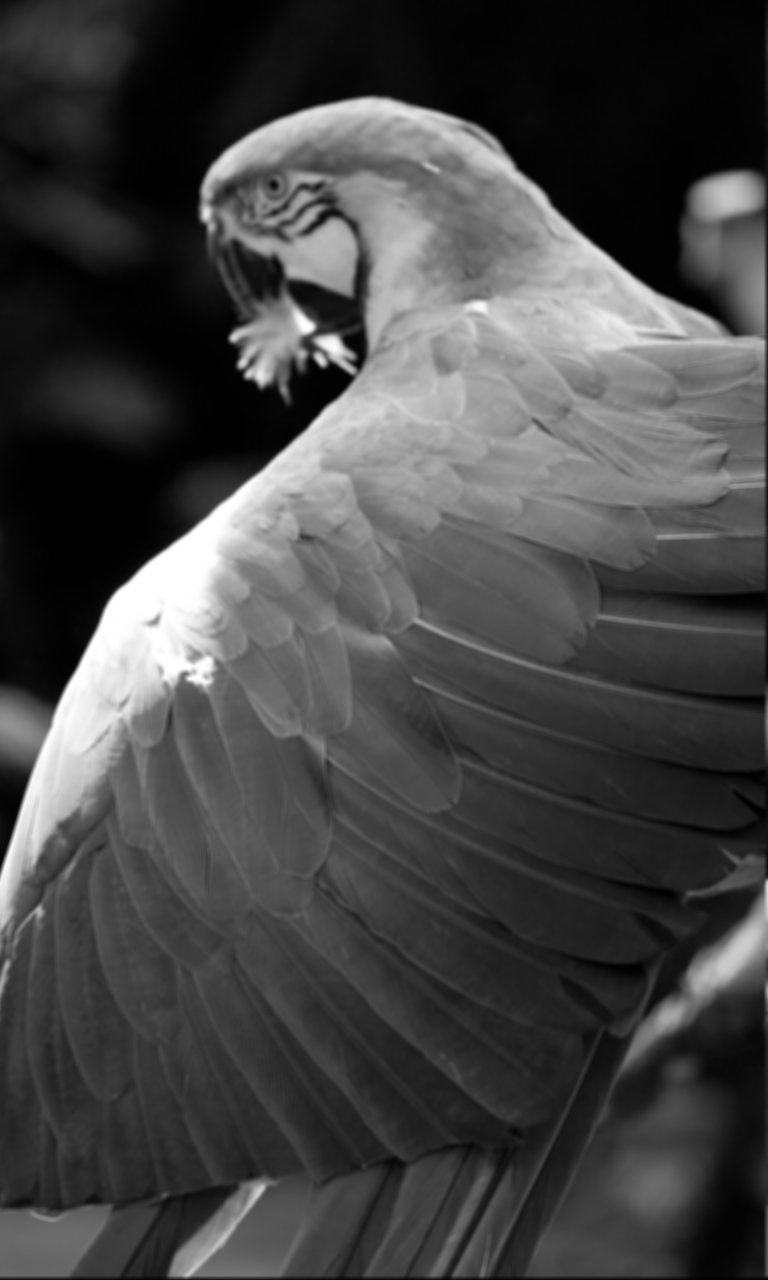
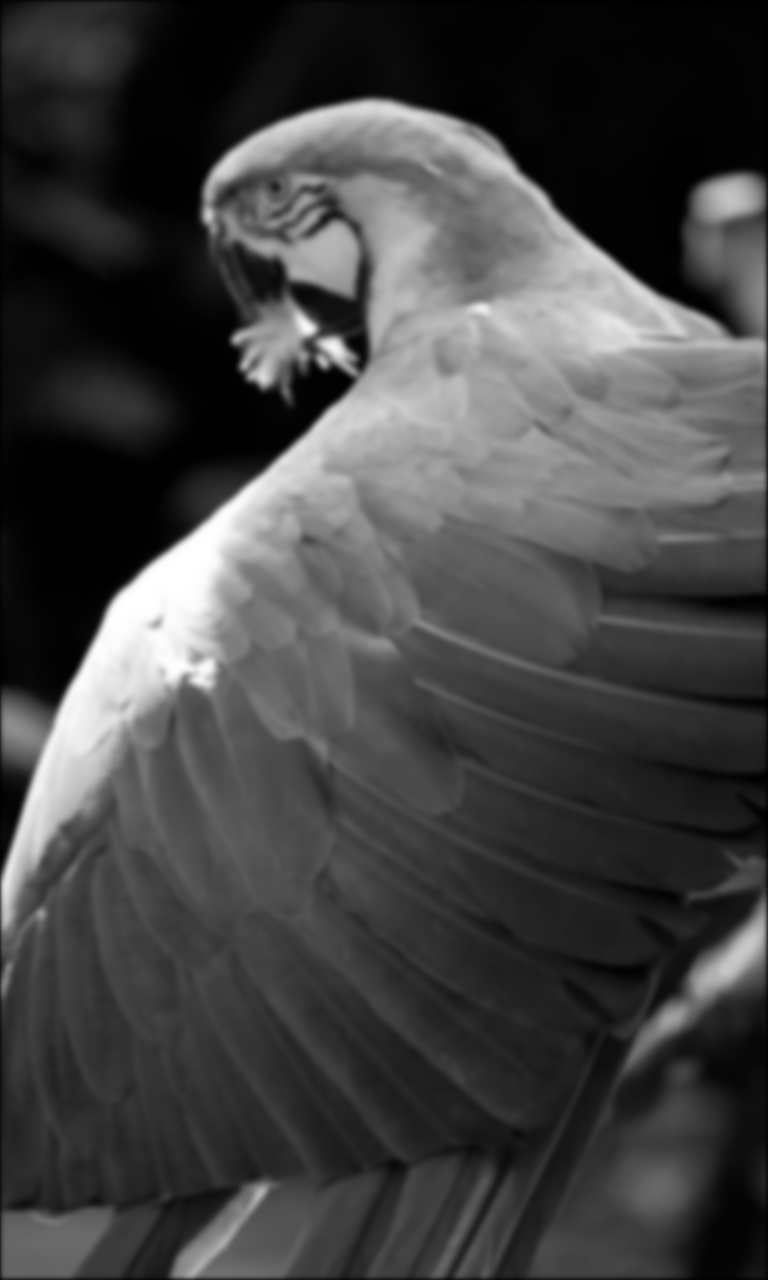
parrot blurred four times

diff --git a/apps/blur/blur/blur.c b/apps/blur/blur/blur.c
@@ -33,7 +33,7 @@ EXO_ASSUME(n % 256 == 0);
 EXO_ASSUME(m % 256 == 0);
 for (int_fast32_t i = 0; i < n; i++) {
   for (int_fast32_t j = 0; j < m; j++) {
-    g[i * (m + 4) + j] = ((inp[i * (m + 4) + j] + inp[i * (m + 4) + 1 + j] + inp[i * (m + 4) + 2 + j] + inp[i * (m + 4) + 3 + j] + inp[i * (m + 4) + 4 + j]) / 5 + (inp[(1 + i) * (m + 4) + j] + inp[(1 + i) * (m + 4) + 1 + j] + inp[(1 + i) * (m + 4) + 2 + j] + inp[(1 + i) * (m + 4) + 3 + j] + inp[(1 + i) * (m + 4) + 4 + j]) / 5 + (inp[(2 + i) * (m + 4) + j] + inp[(2 + i) * (m + 4) + 1 + j] + inp[(2 + i) * (m + 4) + 2 + j] + inp[(2 + i) * (m + 4) + 3 + j] + inp[(2 + i) * (m + 4) + 4 + j]) / 5 + (inp[(3 + i) * (m + 4) + j] + inp[(3 + i) * (m + 4) + 1 + j] + inp[(3 + i) * (m + 4) + 2 + j] + inp[(3 + i) * (m + 4) + 3 + j] + inp[(3 + i) * (m + 4) + 4 + j]) / 5 + (inp[(4 + i) * (m + 4) + j] + inp[(4 + i) * (m + 4) + 1 + j] + inp[(4 + i) * (m + 4) + 2 + j] + inp[(4 + i) * (m + 4) + 3 + j] + inp[(4 + i) * (m + 4) + 4 + j]) / 5) / 5;
+    g[i * (m + 4) + j] = ((inp[i * (m + 4) + j] + inp[i * (m + 4) + 1 + j] + inp[i * (m + 4) + 2 + j] + inp[i * (m + 4) + 3 + j] + inp[i * (m + 4) + 4 + j]) / 5.0 + (inp[(1 + i) * (m + 4) + j] + inp[(1 + i) * (m + 4) + 1 + j] + inp[(1 + i) * (m + 4) + 2 + j] + inp[(1 + i) * (m + 4) + 3 + j] + inp[(1 + i) * (m + 4) + 4 + j]) / 5.0 + (inp[(2 + i) * (m + 4) + j] + inp[(2 + i) * (m + 4) + 1 + j] + inp[(2 + i) * (m + 4) + 2 + j] + inp[(2 + i) * (m + 4) + 3 + j] + inp[(2 + i) * (m + 4) + 4 + j]) / 5.0 + (inp[(3 + i) * (m + 4) + j] + inp[(3 + i) * (m + 4) + 1 + j] + inp[(3 + i) * (m + 4) + 2 + j] + inp[(3 + i) * (m + 4) + 3 + j] + inp[(3 + i) * (m + 4) + 4 + j]) / 5.0 + (inp[(4 + i) * (m + 4) + j] + inp[(4 + i) * (m + 4) + 1 + j] + inp[(4 + i) * (m + 4) + 2 + j] + inp[(4 + i) * (m + 4) + 3 + j] + inp[(4 + i) * (m + 4) + 4 + j]) / 5.0) / 5.0;
   }
 }
 }
@@ -62,17 +62,17 @@ free(f);
 void blur_tiled( void *ctxt, int_fast32_t n, int_fast32_t m, uint8_t* g, const uint8_t* inp ) {
 EXO_ASSUME(n % 256 == 0);
 EXO_ASSUME(m % 256 == 0);
-uint8_t *f = (uint8_t*) malloc(133 * 128 * sizeof(*f));
+uint8_t *f = (uint8_t*) malloc(133 * 256 * sizeof(*f));
 for (int_fast32_t io = 0; io < ((n) / (128)); io++) {
-  for (int_fast32_t jo = 0; jo < ((m) / (128)); jo++) {
-    for (int_fast32_t ji = 0; ji < 128; ji++) {
-      for (int_fast32_t ii = 0; ii < 132; ii++) {
-        f[ii * 128 + ji] = (inp[(ii + 128 * io) * (m + 4) + ji + 128 * jo] + inp[(ii + 128 * io) * (m + 4) + 1 + ji + 128 * jo] + inp[(ii + 128 * io) * (m + 4) + 2 + ji + 128 * jo] + inp[(ii + 128 * io) * (m + 4) + 3 + ji + 128 * jo] + inp[(ii + 128 * io) * (m + 4) + 4 + ji + 128 * jo]) / 5;
+  for (int_fast32_t jo = 0; jo < ((m) / (256)); jo++) {
+    for (int_fast32_t ii = 0; ii < 132; ii++) {
+      for (int_fast32_t ji = 0; ji < 256; ji++) {
+        f[ii * 256 + ji] = (inp[(ii + 128 * io) * (m + 4) + ji + 256 * jo] + inp[(ii + 128 * io) * (m + 4) + 1 + ji + 256 * jo] + inp[(ii + 128 * io) * (m + 4) + 2 + ji + 256 * jo] + inp[(ii + 128 * io) * (m + 4) + 3 + ji + 256 * jo] + inp[(ii + 128 * io) * (m + 4) + 4 + ji + 256 * jo]) / 5.0;
       }
     }
     for (int_fast32_t ii = 0; ii < 128; ii++) {
-      for (int_fast32_t ji = 0; ji < 128; ji++) {
-        g[(ii + 128 * io) * (m + 4) + ji + 128 * jo] = (f[ii * 128 + ji] + f[(1 + ii) * 128 + ji] + f[(2 + ii) * 128 + ji] + f[(3 + ii) * 128 + ji] + f[(4 + ii) * 128 + ji]) / 5;
+      for (int_fast32_t ji = 0; ji < 256; ji++) {
+        g[(ii + 128 * io) * (m + 4) + ji + 256 * jo] = (f[ii * 256 + ji] + f[(1 + ii) * 256 + ji] + f[(2 + ii) * 256 + ji] + f[(3 + ii) * 256 + ji] + f[(4 + ii) * 256 + ji]) / 5.0;
       }
     }
   }
@@ -89,7 +89,7 @@ free(f);
 static void consumer( void *ctxt, int_fast32_t n, int_fast32_t m, const uint8_t* f, uint8_t* g ) {
 for (int_fast32_t i = 0; i < n; i++) {
   for (int_fast32_t j = 0; j < m; j++) {
-    g[i * (m + 4) + j] = (f[i * (m + 4) + j] + f[(i + 1) * (m + 4) + j] + f[(i + 2) * (m + 4) + j] + f[(i + 3) * (m + 4) + j] + f[(i + 4) * (m + 4) + j]) / 5;
+    g[i * (m + 4) + j] = (f[i * (m + 4) + j] + f[(i + 1) * (m + 4) + j] + f[(i + 2) * (m + 4) + j] + f[(i + 3) * (m + 4) + j] + f[(i + 4) * (m + 4) + j]) / 5.0;
   }
 }
 }
@@ -103,7 +103,7 @@ for (int_fast32_t i = 0; i < n; i++) {
 static void producer( void *ctxt, int_fast32_t n, int_fast32_t m, uint8_t* f, const uint8_t* inp ) {
 for (int_fast32_t i = 0; i < n + 4; i++) {
   for (int_fast32_t j = 0; j < m; j++) {
-    f[i * (m + 4) + j] = (inp[i * (m + 4) + j] + inp[i * (m + 4) + j + 1] + inp[i * (m + 4) + j + 2] + inp[i * (m + 4) + j + 3] + inp[i * (m + 4) + j + 4]) / 5;
+    f[i * (m + 4) + j] = (inp[i * (m + 4) + j] + inp[i * (m + 4) + j + 1] + inp[i * (m + 4) + j + 2] + inp[i * (m + 4) + j + 3] + inp[i * (m + 4) + j + 4]) / 5.0;
   }
 }
 }

diff --git a/apps/blur/main.cpp b/apps/blur/main.cpp
@@ -100,13 +100,18 @@ typedef void (*blurtype)(
 
 int exec_parrot(blurtype func, std::string output_name, int width, int height,
     uint8_t *parrot) {
-  uint8_t *parrot_blurred;
-  parrot_blurred = (uint8_t *)malloc(sizeof(uint8_t) * (width+4) * (height+4));
+  uint8_t *parrot_blurred_0, *parrot_blurred_1;
+  parrot_blurred_0 = (uint8_t *)malloc(sizeof(uint8_t) * (width+4) * (height+4));
+  parrot_blurred_1 = (uint8_t *)malloc(sizeof(uint8_t) * (width+4) * (height+4));
 
   auto start = std::chrono::steady_clock::now();
   int iterations = 100;
-  for (int i = 0; i < iterations; i++)
-    func(nullptr, height, width, parrot_blurred, parrot);
+  for (int i = 0; i < iterations; i+=4) {
+    func(nullptr, height, width, &parrot_blurred_0[2*(width+4)+2], parrot);
+    func(nullptr, height, width, &parrot_blurred_1[2*(width+4)+2], parrot_blurred_0);
+    func(nullptr, height, width, &parrot_blurred_0[2*(width+4)+2], parrot_blurred_1);
+    func(nullptr, height, width, parrot_blurred_1, parrot_blurred_0);
+  }
   auto stop = std::chrono::steady_clock::now();
   float time = (float)std::chrono::duration_cast<std::chrono::microseconds>(
       (stop - start) / iterations)
@@ -118,7 +123,7 @@ int exec_parrot(blurtype func, std::string output_name, int width, int height,
   uint8_t *parrot_write;
   parrot_write = (uint8_t *)malloc(sizeof(uint8_t) * width * height);
   for (int i = 0; i < height; i++)
-    memcpy(&parrot_write[i*width], &parrot_blurred[i*(width+4)], sizeof(uint8_t) * width);
+    memcpy(&parrot_write[i*width], &parrot_blurred_1[i*(width+4)], sizeof(uint8_t) * width);
   if (!write_png_file(file_name.c_str(), parrot_write, width, height)) {
     std::cerr << "Error writing PNG file." << std::endl;
   }
@@ -138,20 +143,12 @@ int main() {
     uint8_t *parrot;
     parrot = (uint8_t *)malloc(sizeof(uint8_t) * (width+4) * (height+4));
     for (int i = 0; i < height; i++) {
-      memcpy(&parrot[i*(width+4)], &buffer[i*width], sizeof(uint8_t) * width);
-      parrot[i*(width+4) + width] = buffer[i*width+width];
-      parrot[i*(width+4) + width + 1] = buffer[i*width+width];
-      parrot[i*(width+4) + width + 2] = buffer[i*width+width];
-      parrot[i*(width+4) + width + 3] = buffer[i*width+width];
+      memcpy(&parrot[(i+2)*(width+4)+2], &buffer[i*width], sizeof(uint8_t) * width);
     }
 
     exec_parrot(blur_staged, "blur_staged", width, height, parrot);
     exec_parrot(blur_inline, "blur_inline", width, height, parrot);
     exec_parrot(blur_tiled, "blur_tiled", width, height, parrot);
-    /*
-    exec_parrot(blur_compute_at_store_at, "blur_compute_at_store_at", width,
-        height, parrot);
-    */
   } else {
     std::cerr << "Error reading PNG file." << std::endl;
   }

diff --git a/apps/blur/blur.py b/apps/blur/blur.py
@@ -75,17 +75,16 @@ def prod_inline(p):
     return p_inline
 
 
-def prod_tile(p, tile_size=32):
+def prod_tile(p, i_tile=32, j_tile=32):
     p = inline(p, "producer(_)")
     p = inline(p, "consumer(_)")
-    p = tile(
-        p, "g", "i", "j", ["io", "ii"], ["jo", "ji"], tile_size, tile_size, perfect=True
-    )
+    p = tile(p, "g", "i", "j", ["io", "ii"], ["jo", "ji"], i_tile, j_tile, perfect=True)
+    p = simplify(p)
 
-    tiled_c_io_bounds = (0, f"{tile_size} * io", 0, tile_size)
-    tiled_p_io_bounds = (0, f"{tile_size} * io", 0, tile_size + 5)
-    tiled_c_jo_bounds = (1, f"{tile_size} * jo", 0, tile_size)
-    tiled_p_jo_bounds = (1, f"{tile_size} * jo", 0, tile_size)
+    tiled_c_io_bounds = (0, f"{i_tile} * io", 0, i_tile)
+    tiled_p_io_bounds = (0, f"{i_tile} * io", 0, i_tile + 5)
+    tiled_c_jo_bounds = (1, f"{j_tile} * jo", 0, j_tile)
+    tiled_p_jo_bounds = (1, f"{j_tile} * jo", 0, j_tile)
 
     loop = p.find_loop("io")
     p = compute_at(p, "f", "g", loop, tiled_c_io_bounds, tiled_p_io_bounds, hardcode=4)
@@ -94,9 +93,11 @@ def prod_tile(p, tile_size=32):
     loop = p.find_loop("jo")
     p = compute_at(p, "f", "g", loop, tiled_c_jo_bounds, tiled_p_jo_bounds, hardcode=0)
 
+    p = simplify(p)
     p = store_at(p, "f", "g", p.find_loop("io"), tiled_p_io_bounds)
     p = store_at(p, "f", "g", p.find_loop("jo"), tiled_p_jo_bounds)
     p = lift_alloc(p, "f: _", n_lifts=2)
+    p = reorder_loops(p, "ji ii")
 
     return p
 
@@ -107,7 +108,7 @@ print(blur_staged)
 blur_inline = rename(prod_inline(blur), "blur_inline")
 print("blur_inline")
 print(blur_inline)
-blur_tiled = rename(prod_tile(blur, tile_size=128), "blur_tiled")
+blur_tiled = rename(prod_tile(blur, i_tile=128, j_tile=256), "blur_tiled")
 print("blur_tiled")
 print(blur_tiled)
 

diff --git a/src/exo/LoopIR_scheduling.py b/src/exo/LoopIR_scheduling.py
@@ -573,7 +573,6 @@ def DoSplit(loop_cursor, quot, outer_iter, inner_iter, tail="guard", perfect=Fal
     srcinfo = loop.srcinfo
     tail_strategy = "perfect" if perfect else tail
 
-    assert quot > 1
     if not is_const_zero(loop.lo):
         raise SchedulingError(
             f"expected the lower bound of the loop to be zero, got {loop.lo}."

diff --git a/src/exo/API_scheduling.py b/src/exo/API_scheduling.py
@@ -1578,8 +1578,6 @@ def divide_loop(proc, loop_cursor, div_const, new_iters, tail="guard", perfect=F
         `for lo in seq(0,e - q * (e / q)):`
         `    s[ i -> q * (e / q) + lo ]
     """
-    if div_const == 1:
-        raise ValueError("why are you trying to split by 1?")
 
     stmt = loop_cursor._impl
 
